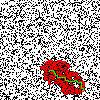
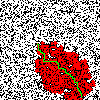
DWA

diff --git a/Dynamic Window Approach/main.py b/Dynamic Window Approach/main.py
@@ -1,0 +1,173 @@
+import numpy as np
+import cv2
+import random
+import queue
+import copy
+
+
+def generateMatrix(matrixSize, probabilityForZero=0.7):
+    matrix = np.random.choice([0, 1], size=(matrixSize, matrixSize), p=[probabilityForZero, 1 - probabilityForZero])
+    matrix = matrix.tolist()
+    return matrix
+
+
+def euclideanDistance(s, e):
+    return np.linalg.norm(np.array(s) - np.array(e))
+
+
+def minEuclideanDistance(point, path):
+    minNode = path[0]
+    minDist = np.inf
+    for node in path:
+        distance = euclideanDistance(point, node)
+        if distance < minDist:
+            minNode = node
+            minDist = distance
+    return minNode, minDist
+
+
+def aStar(matrix, start, end, matrixSize):
+    pq = queue.PriorityQueue()
+    # distance, node, path
+    pq.put((0, start, [start]))
+    matrix_copy = copy.deepcopy(matrix)
+    matrix_copy[start[0]][start[1]] = 2
+    neighbours = [[-1, 0], [0, -1], [1, 0], [0, 1]]
+
+    while not pq.empty():
+        _, node, path = pq.get()
+        if node == end:
+            return path
+
+        for neighbour in neighbours:
+            x, y = node[0] + neighbour[0], node[1] + neighbour[1]
+            if 0 <= x < matrixSize and 0 <= y < matrixSize and not matrix_copy[x][y]:
+                pq.put((len(path) + euclideanDistance([x, y], end), [x, y], path + [[x, y]]))
+                matrix_copy[x][y] = 2
+
+
+def generatePath(roverPosition, roverOrientation, directionDegrees, steps, matrixSize):
+    directionRadians = np.radians(directionDegrees)
+    dx = -np.cos(directionRadians)
+    dy = np.sin(directionRadians)
+    path = [roverPosition]
+    turnAngle = 0
+    if directionDegrees != roverOrientation:
+        turnAngle = (directionDegrees - roverOrientation) / 5
+
+    for _ in range(steps):
+        newX = path[-1][0] + dx
+        newY = path[-1][1] + dy
+        newPosition = [newX, newY]
+        if 0 < newPosition[0] < matrixSize - 1 and 0 < newPosition[1] < matrixSize - 1:
+            path.append(newPosition)
+
+        directionDegrees += turnAngle
+        directionRadians = np.radians(directionDegrees)
+        dx = -np.cos(directionRadians)
+        dy = np.sin(directionRadians)
+
+    lastNode = None
+    path2 = []
+    for node in path:
+        roundedNode = [int(round(node[0])), int(round(node[1]))]
+        if lastNode and lastNode[0] == roundedNode[0] and lastNode[1] == roundedNode[1]:
+            continue
+        path2.append(roundedNode)
+        lastNode = roundedNode
+
+    return path2
+
+
+def generatePaths(roverPosition, roverOrientation, possibleDirections, steps, matrixSize):
+    possiblePaths = []
+    for direction in possibleDirections:
+        path = generatePath(roverPosition, roverOrientation, direction, steps, matrixSize)
+        possiblePaths.append(path)
+    return possiblePaths
+
+
+def distanceFromGlobalPath(globalPath, localPath):
+    startNodeGlobalPath = minEuclideanDistance(localPath[0], globalPath)[0]
+    startIndexGlobalPath = globalPath.index(startNodeGlobalPath)
+    remainingGlobalPath = globalPath[startIndexGlobalPath:]
+
+    distance = 0
+    for node in localPath:
+        distance += minEuclideanDistance(node, remainingGlobalPath)[1]
+    distance /= len(localPath)
+
+    return distance
+
+
+def dwa(matrix, matrixSize, roverPosition, roverOrientation, globalPath):
+    possibleDirections = [roverOrientation + d for d in [-40, -25, -10, 0, 10, 25, 40]]
+    steps = 15
+    localPaths = generatePaths(roverPosition, roverOrientation, possibleDirections, steps, matrixSize)
+    localPathsCost = [0 for _ in range(len(localPaths))]
+
+    for i in range(len(localPaths)):
+        localPathsCost[i] += distanceFromGlobalPath(globalPath, localPaths[i])
+        for j in range(len(localPaths[i])):
+            if matrix[localPaths[i][j][0]][localPaths[i][j][1]] == 1:
+                localPathsCost[i] += 1
+
+    chosenLocalPath = []
+    minCost = np.inf
+    for i in range(len(localPaths)):
+        if localPathsCost[i] < minCost:
+            minCost = localPathsCost[i]
+            chosenLocalPath = localPaths[i]
+
+    print(localPathsCost)
+    return localPaths, chosenLocalPath
+
+
+def image(matrix, globalPath, localPaths, chosenLocalPath, roverPosition):
+    if globalPath:
+        for node in globalPath:
+            matrix[node[0]][node[1]] = [255, 255, 0]
+
+    if localPaths:
+        for path in localPaths:
+            for node in path:
+                if matrix[node[0]][node[1]] == 1:
+                    matrix[node[0]][node[1]] = [0, 130, 0]
+                else:
+                    matrix[node[0]][node[1]] = [0, 255, 0]
+
+    if chosenLocalPath:
+        for node in chosenLocalPath:
+            if matrix[node[0]][node[1]] == [0, 130, 0]:
+                matrix[node[0]][node[1]] = [0, 100, 100]
+            else:
+                matrix[node[0]][node[1]] = [0, 255, 255]
+
+    matrix[roverPosition[0]][roverPosition[1]] = [255, 0, 0]
+
+    for i in range(len(matrix)):
+        for j in range(len(matrix[i])):
+            if matrix[i][j] == 0:
+                matrix[i][j] = [255, 255, 255]
+            elif matrix[i][j] == 1:
+                matrix[i][j] = [0, 0, 0]
+
+    matrix = np.array(matrix, dtype=np.uint8)
+    img = cv2.cvtColor(matrix, cv2.COLOR_RGB2BGR)
+    cv2.imwrite("result.png", img)
+
+
+def main(matrixSize):
+    roverPosition = [int(matrixSize / 2), int(matrixSize / 2)]
+    roverOrientation = random.randint(0, 360)
+    matrix = generateMatrix(matrixSize, 0.85)
+    globalPath = aStar(matrix, [2, 2], [matrixSize - 2, matrixSize - 2], matrixSize)
+    if not globalPath:
+        print("GLOBAL PATH NOT FOUND")
+        return
+    localPaths, chosenLocalPath = dwa(matrix, matrixSize, roverPosition, roverOrientation, globalPath)
+    image(matrix, globalPath, localPaths, chosenLocalPath, roverPosition)
+
+
+if __name__ == "__main__":
+    main(40)
